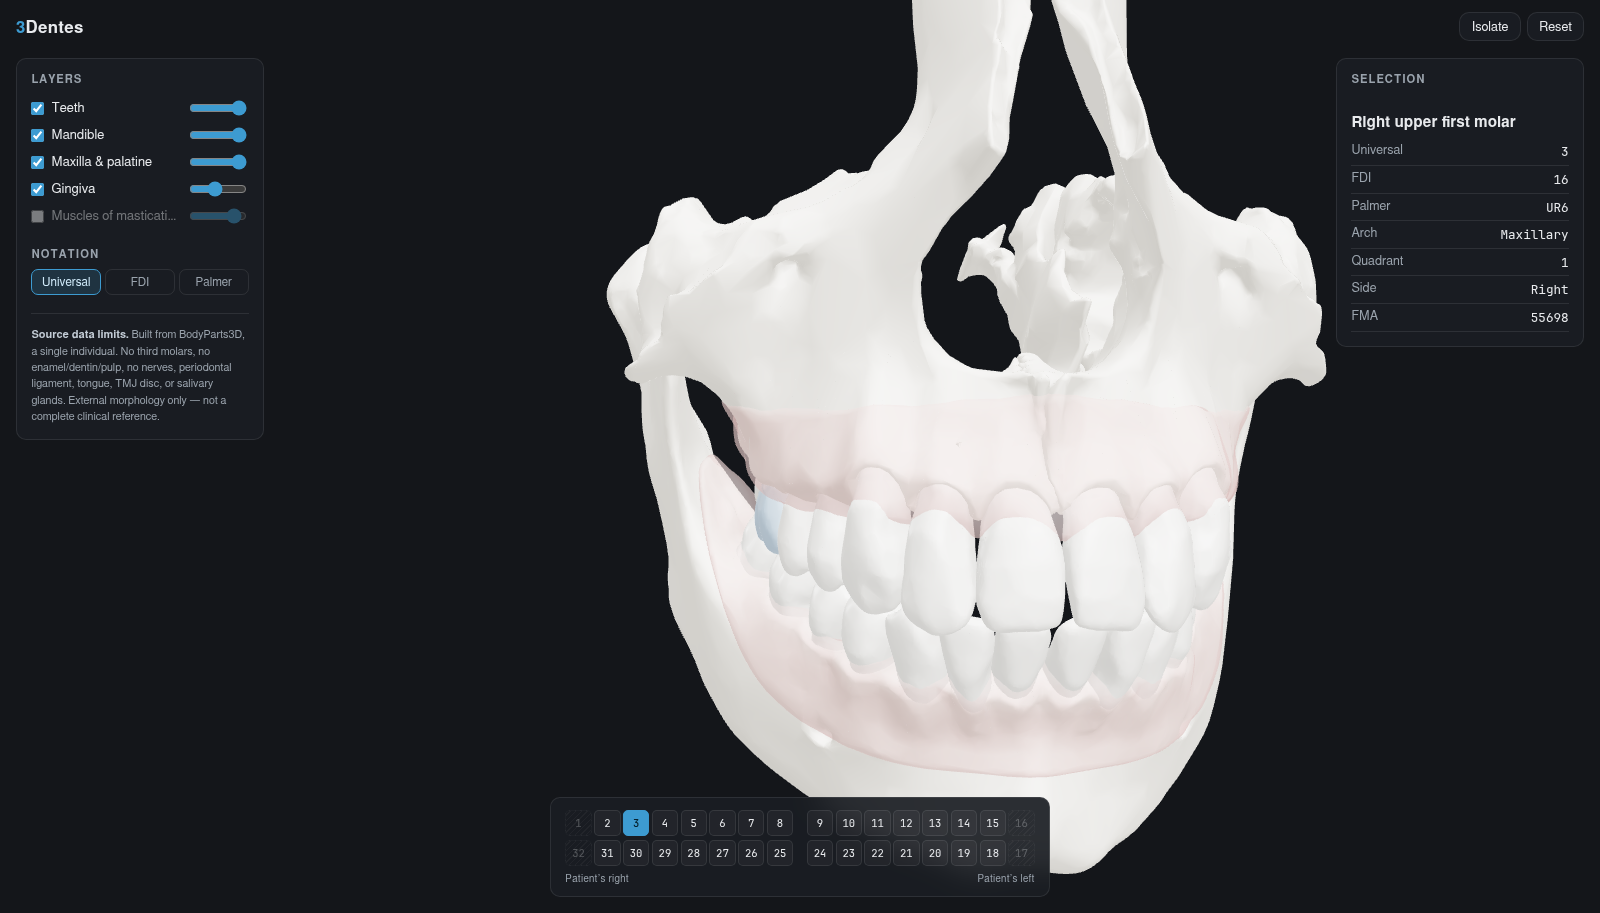
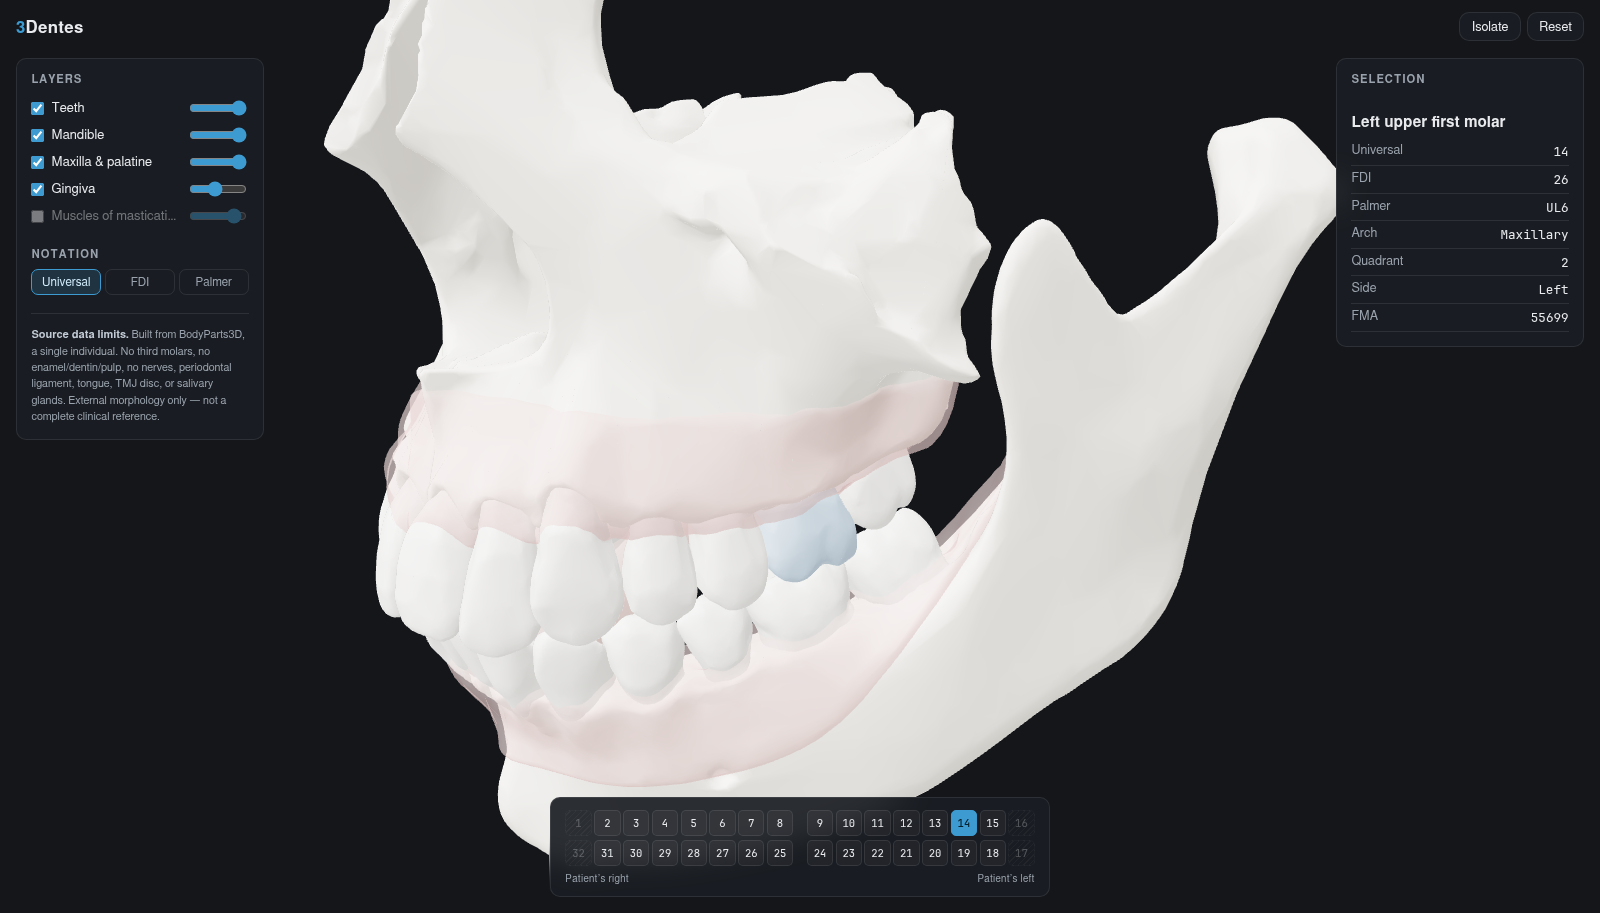
Approach a selected tooth from outside the arch
Flying straight in along the current view direction left posterior teeth hidden
behind the premolars in front of them - the arch curves away from a frontal
viewpoint, so the tooth the camera had just framed was not actually visible.

Selection now approaches buccally, from outside the arch. Measured azimuth from
frontal: central incisor -5deg, canine -20deg, first molar -50deg, second molar
-66deg - a smooth progression from frontal to lateral as you move posteriorly,
with each tooth exposed on arrival. Also backs the camera off a little (4.2x the
structure's size, min 70mm) so the neighbouring teeth stay in frame for context.

Claude-Session: https://claude.ai/code/session_013PsU6fY6enHZTuos7HdzgV

Changed region(s): [[0.1875, 0.0, 0.8438, 0.9814], [0.8438, 0.1227, 0.9375, 0.1533], [0.5, 0.7974, 0.5312, 0.828]]

diff --git a/src/main.js b/src/main.js
@@ -62,6 +62,24 @@ async function main() {
     else mesh.material.color.copy(mesh.userData.baseColor).lerp(new THREE.Color(color), 0.55);
   }
 
+  /**
+   * Where to view a structure from. Flying straight in along the current
+   * direction leaves a molar hidden behind the premolars in front of it, since
+   * the arch curves away from a frontal viewpoint. Approaching from outside the
+   * arch — buccally — puts the camera where the tooth is actually exposed:
+   * near-frontal for incisors, near-lateral for molars, and a natural
+   * three-quarter view for everything between.
+   */
+  function approachFor(focus) {
+    const outward = new THREE.Vector3(focus.x, 0, focus.z);
+    if (outward.lengthSq() < 1e-6) outward.set(0, 0, 1); // dead centre: face it
+    outward.normalize();
+    return outward
+      .add(new THREE.Vector3(0, 0, 0.32))  // bias forward, avoiding a flat profile
+      .add(new THREE.Vector3(0, 0.22, 0))  // and slightly above the occlusal plane
+      .normalize();
+  }
+
   let hovered = null;
   function setHover(fma) {
     if (hovered && hovered !== selected) tint(hovered, null);
@@ -80,7 +98,8 @@ async function main() {
         const mesh = meshes.get(selected);
         const box = new THREE.Box3().setFromObject(mesh);
         const size = box.getSize(new THREE.Vector3()).length();
-        view.flyTo(box.getCenter(new THREE.Vector3()), Math.max(size * 3.2, 55));
+        const focus = box.getCenter(new THREE.Vector3());
+        view.flyTo(focus, Math.max(size * 4.2, 70), approachFor(focus));
       }
     } else {
       detail.clear();

diff --git a/src/scene.js b/src/scene.js
@@ -58,10 +58,12 @@ export function createScene(canvas) {
   // --- camera flight -------------------------------------------------------
   let flight = null;
 
-  function flyTo(focus, distance) {
-    // Approach from the current viewing direction so the model never appears to
-    // spin under the user; only the framing changes.
-    const dir = camera.position.clone().sub(controls.target).normalize();
+  function flyTo(focus, distance, approach = null) {
+    // Without an approach direction, keep the current one so the model doesn't
+    // appear to spin under the user and only the framing changes.
+    const dir = approach
+      ? approach.clone().normalize()
+      : camera.position.clone().sub(controls.target).normalize();
     flight = {
       t: 0,
       fromPos: camera.position.clone(),

diff --git a/README.md b/README.md
@@ -17,9 +17,10 @@ offline.
   derived from arch/side/position rather than hand-entered.
 - **Odontogram** in the standard clinical layout (upper arch on top, patient's
   right on the viewer's left), synced both ways with the 3D view. Selecting a
-  tooth on the chart flies the camera to it — which is how you reach the
-  posterior teeth, since from a frontal view a molar really is hidden behind the
-  premolars in front of it.
+  tooth on the chart flies the camera to it, approaching from outside the arch
+  so the tooth is actually exposed — near-frontal for an incisor, swinging
+  buccal for a molar. This is how you reach the posterior teeth, since from a
+  frontal view a molar really is hidden behind the premolars in front of it.
 - **Layer visibility and opacity**, so you can fade the gingiva and alveolar bone
   back to expose the roots in situ, or isolate a single structure.
 
